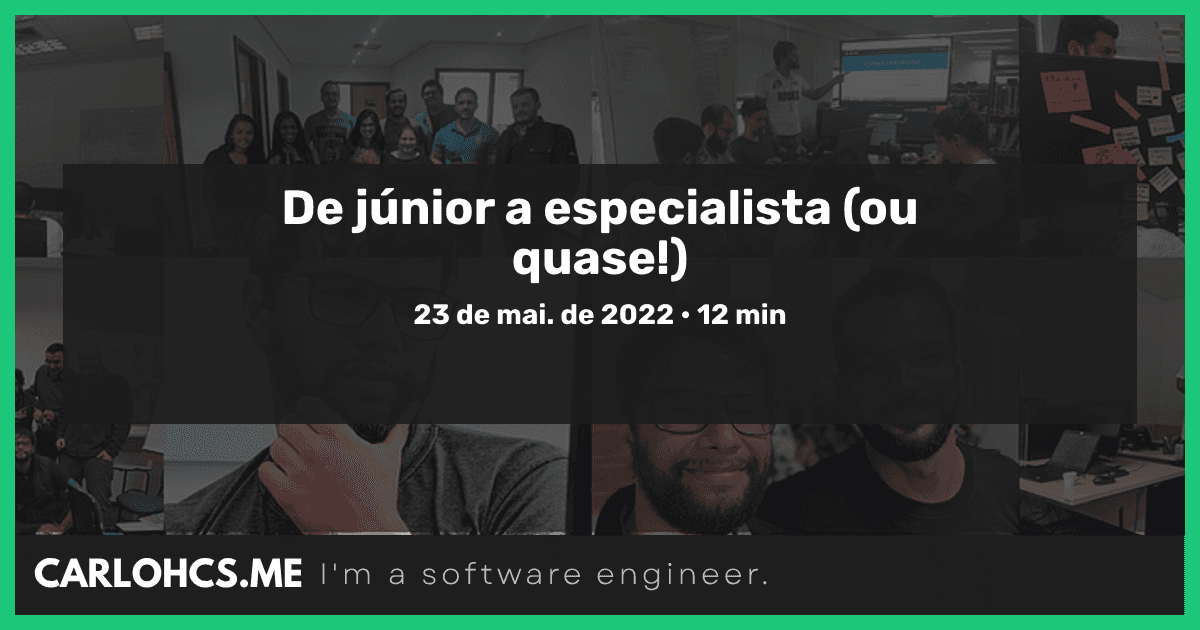
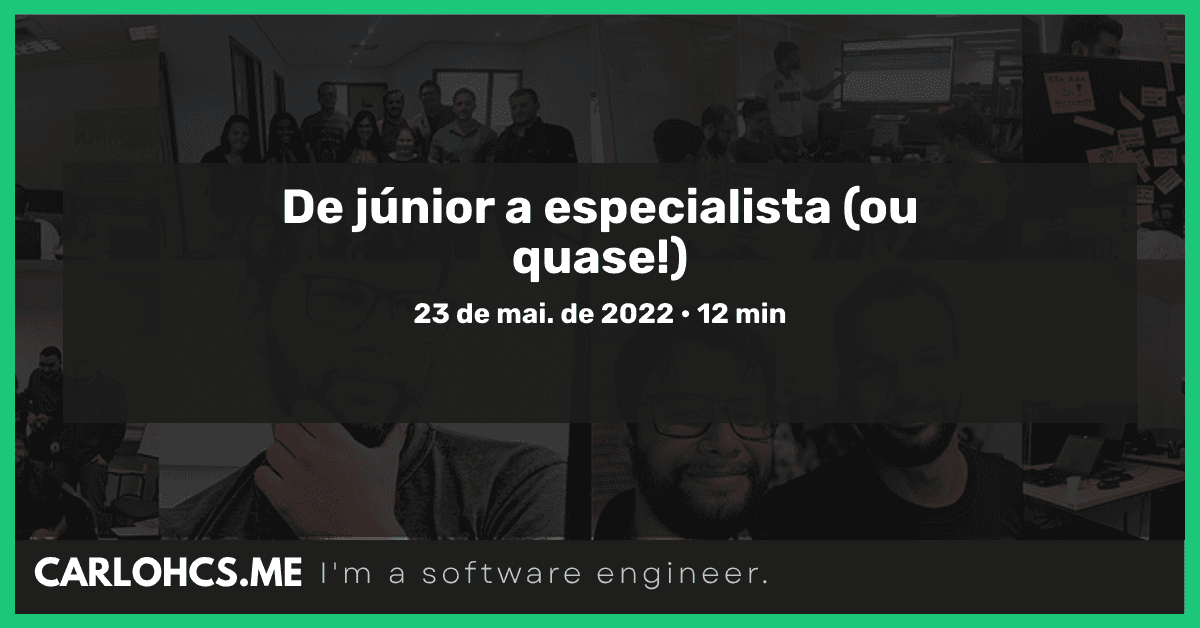
fix: change sharing pictures to respect 1:91 proportion

diff --git a/scripts/generate-blog-previews.js b/scripts/generate-blog-previews.js
@@ -10,7 +10,7 @@ const BLOG_IMAGES_DIR = path.join(__dirname, '..', 'static', 'img', 'blog')
 
 // Configurações de design
 const CANVAS_WIDTH = 1200
-const CANVAS_HEIGHT = 630
+const CANVAS_HEIGHT = 628
 const OVERLAY_HEIGHT = 260
 const OVERLAY_MARGIN = 15  // Margens de 15px para top, left e right
 const OVERLAY_SIDE_MARGIN = 63  // Margem lateral específica para o overlay
@@ -37,11 +37,11 @@ async function createPreviewImage(post) {
       if (fs.existsSync(postImagePath)) {
         console.log(`  🖼  Usando imagem: ${path.basename(postImagePath)}`)
 
-        // Redimensiona para 1170x520px e adiciona transparência à imagem do post
+        // Adiciona transparência à imagem do post
         postImageBuffer = await sharp(postImagePath)
-          .resize(1170, 520, { fit: 'cover' })
+          .resize(1170, 525, { fit: 'cover' })
           .composite([{
-            input: Buffer.from([255, 255, 255, 128]), // Branco com 50% transparência
+            input: Buffer.from([0, 0, 0, 128]), // Preto com 50% transparência
             raw: { width: 1, height: 1, channels: 4 },
             tile: true,
             blend: 'multiply'
@@ -52,7 +52,7 @@ async function createPreviewImage(post) {
     }
 
     // 3. Cria overlay com texto
-    const overlayY = 164 // 164px do topo
+    const overlayY = 163 // 163px do topo
     const overlayWidth = CANVAS_WIDTH - (OVERLAY_SIDE_MARGIN * 2)
     const textWidth = overlayWidth - (TEXT_PADDING * 2)
 

diff --git a/components/meta/Meta.js b/components/meta/Meta.js
@@ -68,8 +68,8 @@ const Meta = withRouter(({ router, customTitle, metaContent }) => {
         {/* Imagem principal para compartilhamento */}
         <meta property="og:image" content={finalMetaContent.image} />
         <meta property="og:image:alt" content={finalMetaContent.imageAlt} />
-        {/* <meta property="og:image:width" content="1200" />
-        <meta property="og:image:height" content="630" /> */}
+        <meta property="og:image:width" content="1200" />
+        <meta property="og:image:height" content="628" />
         <meta property="og:image:type" content="image/jpeg" />
         <meta property="og:image:secure_url" content={finalMetaContent.image} />
 
